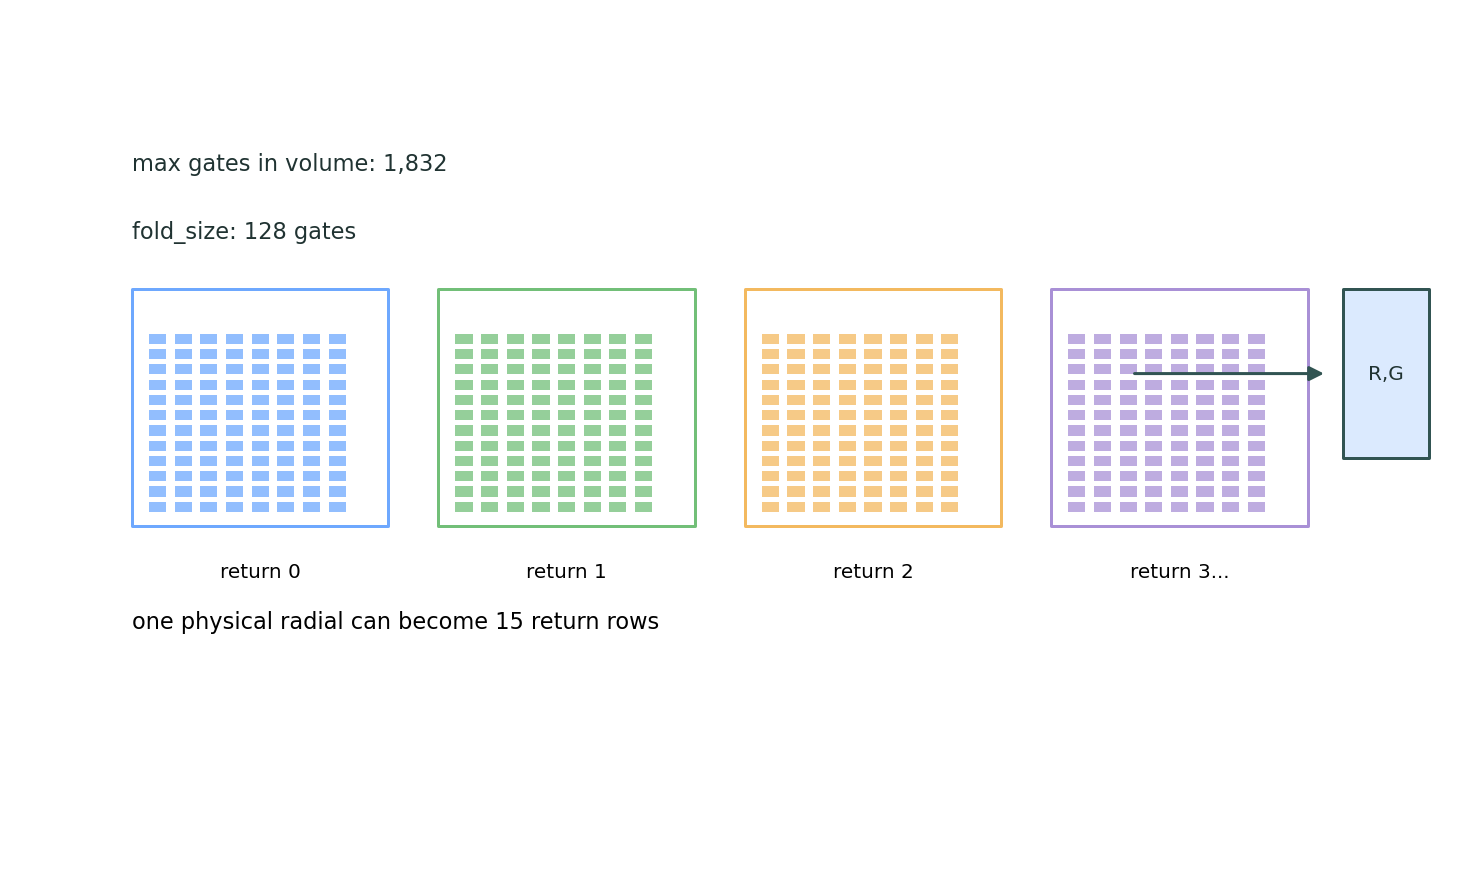
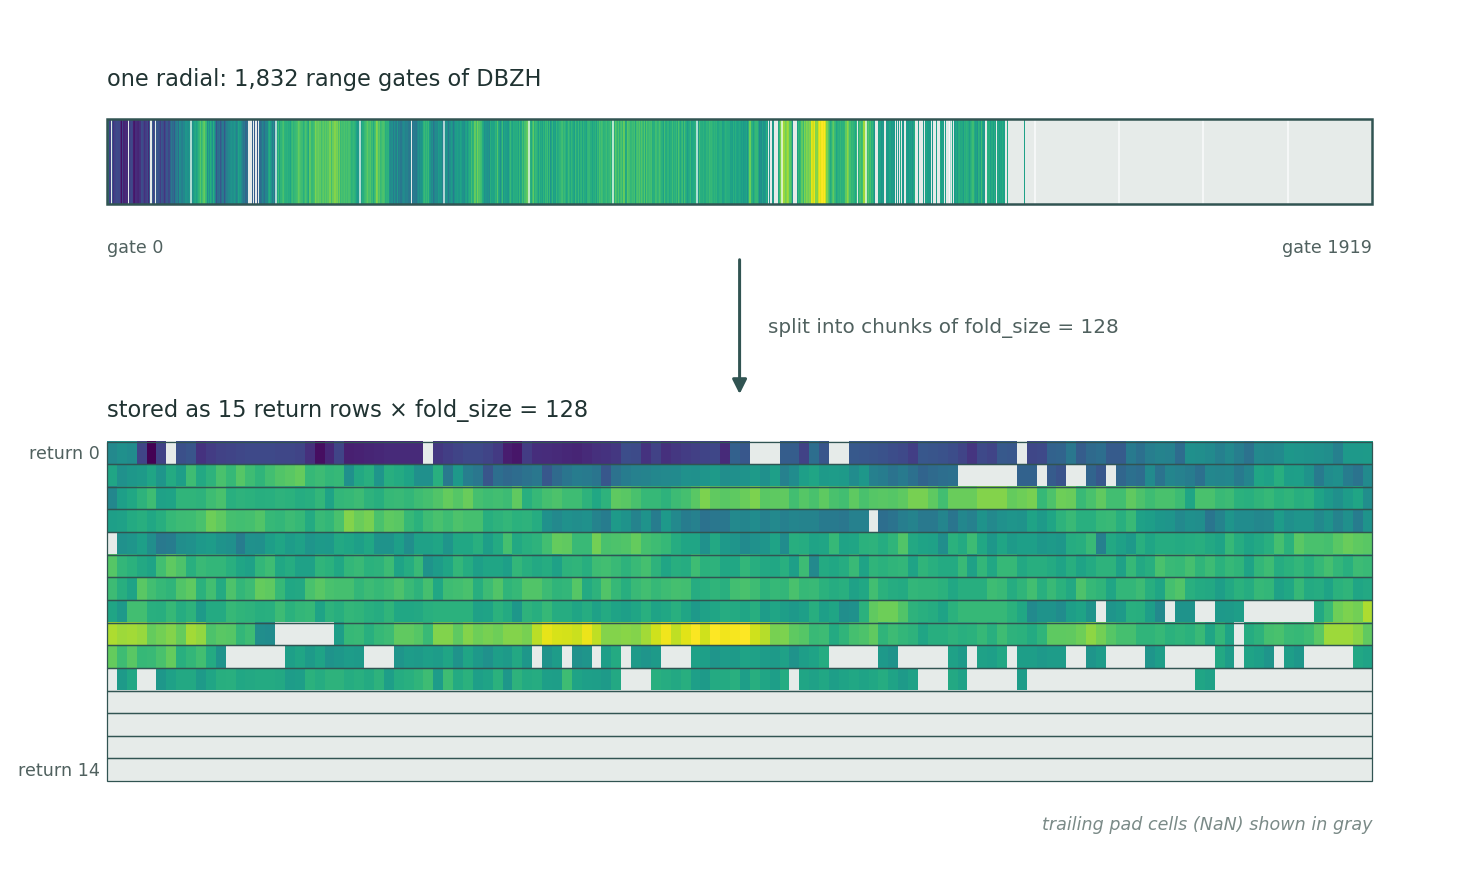
docs: refine raystack visual walkthrough

diff --git a/docs/examples/raystack_explainer.py b/docs/examples/raystack_explainer.py
@@ -118,112 +118,226 @@ def draw_physical_scan(
     *,
     show_title: bool = True,
 ) -> None:
-    """Draw the VCP/sweep/radial/gate hierarchy using real sweep counts."""
+    """Draw the VCP as a side-view fan of beams at real elevation angles."""
     if show_title:
-        ax.set_title("1. Physical scan", loc="left", fontsize=12, fontweight="bold")
-    ax.set_xlim(0, 1)
-    ax.set_ylim(0, 1)
+        ax.set_title("1. Volume coverage", loc="left", fontsize=12, fontweight="bold")
+    ax.set_xlim(-0.05, 1.05)
+    ax.set_ylim(-0.15, 1.05)
     ax.axis("off")
 
+    elevations = np.sort(np.asarray(sweeps["elevation_angle"].values, dtype=np.float32))
     vcp_number = int(np.asarray(vcps["vcp_number"].values)[0])
-    elevations = np.asarray(sweeps["elevation_angle"].values, dtype=np.float32)
-    counts = np.asarray(sweeps["num_returns"].values, dtype=np.int64)
-    shown = min(5, elevations.size)
+    n_sweeps = elevations.size
+    lo = float(elevations[0])
+    hi = float(elevations[-1])
 
-    radar = (0.15, 0.22)
-    ax.scatter([radar[0]], [radar[1]], s=130, color="#315452", zorder=3)
-    ax.text(radar[0], 0.08, "radar", ha="center", va="center", fontsize=8)
+    ax.plot([-0.02, 1.02], [0, 0], color="#a8b3b1", linewidth=1.0, zorder=1)
+    ax.scatter([0], [0], s=140, color="#315452", zorder=5)
+    ax.text(0.0, -0.06, "radar", ha="center", va="top", fontsize=8, color="#203332")
 
-    colors = ["#6ea8fe", "#72bf78", "#f3b95f", "#a990d6", "#e56b6f"]
-    for idx in range(shown):
-        y = 0.34 + idx * 0.1
-        ax.plot(
-            [radar[0], 0.85],
-            [radar[1], y],
-            color=colors[idx % len(colors)],
-            linewidth=2.0,
-            alpha=0.85,
-        )
-        ax.scatter(
-            [0.46, 0.56, 0.66, 0.76],
-            np.interp([0.46, 0.56, 0.66, 0.76], [radar[0], 0.85], [radar[1], y]),
-            s=18,
-            color=colors[idx % len(colors)],
-            alpha=0.9,
-        )
+    cmap = plt.get_cmap("viridis")
+    visual_scale = 60.0 / max(hi, 1.0)
+    beam_length = 0.95
+
+    for i, angle in enumerate(elevations):
+        plot_angle = np.deg2rad(angle * visual_scale)
+        x_end = beam_length * np.cos(plot_angle)
+        y_end = beam_length * np.sin(plot_angle)
+        color = cmap(0.18 + 0.72 * (i / max(n_sweeps - 1, 1)))
+        ax.plot([0, x_end], [0, y_end], color=color, linewidth=1.6, alpha=0.92, zorder=3)
+
+    for angle, label in ((lo, f"{lo:.1f}°"), (hi, f"{hi:.1f}°")):
+        plot_angle = np.deg2rad(angle * visual_scale)
         ax.text(
-            0.88,
-            y,
-            f"sweep {idx}: {elevations[idx]:.1f} deg, {counts[idx]:,} returns",
+            beam_length * np.cos(plot_angle) + 0.02,
+            beam_length * np.sin(plot_angle),
+            label,
             ha="left",
             va="center",
             fontsize=8,
+            color="#203332",
         )
 
-    ax.text(0.05, 0.91, f"VCP {vcp_number}", fontsize=10, fontweight="bold", color="#203332")
-    ax.text(0.05, 0.82, f"{elevations.size} sweeps", fontsize=9, color="#50615f")
-    ax.text(0.42, 0.17, "radials carry range gates", fontsize=9, color="#50615f")
+    ax.text(0.02, 1.0, f"VCP {vcp_number}", fontsize=11, fontweight="bold", color="#203332")
+    ax.text(
+        0.02,
+        0.92,
+        f"{n_sweeps} sweeps from {lo:.1f}° to {hi:.1f}° elevation",
+        fontsize=9,
+        color="#50615f",
+    )
+    ax.text(
+        0.5,
+        -0.12,
+        "side view; vertical scale exaggerated for clarity",
+        ha="center",
+        va="top",
+        fontsize=7,
+        color="#7a8a87",
+        style="italic",
+    )
 
 
 def draw_radial_folding(
     ax: Axes,
     sweeps: xr.Dataset,
+    returns: xr.Dataset,
+    moment: str,
+    offsets: NDArray[np.int64],
     fold_size: int,
     *,
     show_title: bool = True,
 ) -> None:
-    """Draw how a radial is split into fixed-width return chunks."""
+    """Show a real radial as a flattened strip, then folded into return rows."""
     if show_title:
         ax.set_title("2. Fold one radial", loc="left", fontsize=12, fontweight="bold")
     ax.set_xlim(0, 1)
     ax.set_ylim(0, 1)
     ax.axis("off")
 
-    max_gates = int(np.nanmax(np.asarray(sweeps["max_gates"].values, dtype=np.float32)))
-    chunks = max(1, int(np.ceil(max_gates / fold_size)))
-    shown_chunks = min(chunks, 4)
-    gate_rows = 12
-    gate_cols = 8
-    gate_count_shown = gate_rows * gate_cols
-    chunk_width = 0.18
-    x0 = 0.08
-    y0 = 0.45
-    colors = ["#6ea8fe", "#72bf78", "#f3b95f", "#a990d6"]
+    sweep_max_gates = np.asarray(sweeps["max_gates"].values, dtype=np.int64)
+    moment_data = np.asarray(returns[moment].values, dtype=np.float32)
 
-    for chunk in range(shown_chunks):
-        start_x = x0 + chunk * (chunk_width + 0.035)
-        draw_box(
-            ax,
-            (start_x, y0 - 0.05),
-            chunk_width,
-            0.28,
-            "",
-            facecolor="#ffffff",
-            edgecolor=colors[chunk % len(colors)],
+    target_sweep = 0
+    best_score = -1.0
+    for s_idx in range(sweep_max_gates.size):
+        chunks = int(np.ceil(sweep_max_gates[s_idx] / fold_size))
+        if chunks < 2:
+            continue
+        s_start = int(offsets[s_idx])
+        s_stop = int(offsets[s_idx + 1])
+        if s_stop <= s_start:
+            continue
+        valid_count = float(np.sum(~np.isnan(moment_data[s_start:s_stop])))
+        if valid_count > best_score:
+            best_score = valid_count
+            target_sweep = s_idx
+
+    n_chunks = max(1, int(np.ceil(sweep_max_gates[target_sweep] / fold_size)))
+    s_start = int(offsets[target_sweep])
+    s_stop = int(offsets[target_sweep + 1])
+    n_radials_in_sweep = max(1, (s_stop - s_start) // n_chunks)
+    sweep_grid = moment_data[s_start : s_start + n_radials_in_sweep * n_chunks].reshape(
+        n_radials_in_sweep, n_chunks, fold_size
+    )
+    valid_per_radial = np.sum(~np.isnan(sweep_grid), axis=(1, 2))
+    radial = sweep_grid[int(np.argmax(valid_per_radial))]
+    flattened = radial.reshape(1, -1)
+    actual_gates = int(sweep_max_gates[target_sweep])
+
+    cmap = plt.get_cmap("viridis").copy()
+    cmap.set_bad(color="#e6ebe9")
+
+    strip_y0, strip_h = 0.78, 0.10
+    ax.imshow(
+        flattened,
+        extent=(0.05, 0.95, strip_y0, strip_y0 + strip_h),
+        aspect="auto",
+        cmap=cmap,
+        interpolation="nearest",
+        zorder=2,
+    )
+    n_total = flattened.shape[1]
+    for chunk in range(1, n_chunks):
+        x_pos = 0.05 + (chunk * fold_size) / n_total * 0.9
+        ax.plot(
+            [x_pos, x_pos],
+            [strip_y0, strip_y0 + strip_h],
+            color="white",
+            linewidth=0.6,
+            alpha=0.85,
+            zorder=3,
         )
-        for gate in range(gate_count_shown):
-            row = gate // gate_cols
-            col = gate % gate_cols
-            ax.add_patch(
-                Rectangle(
-                    (start_x + 0.012 + col * 0.018, y0 + 0.165 - row * 0.018),
-                    0.012,
-                    0.012,
-                    linewidth=0,
-                    facecolor=colors[chunk % len(colors)],
-                    alpha=0.75,
-                )
-            )
-        label = f"return {chunk}"
-        if chunk == shown_chunks - 1 and chunks > shown_chunks:
-            label = f"return {chunk}..."
-        ax.text(start_x + chunk_width / 2, y0 - 0.11, label, ha="center", fontsize=8)
+    ax.add_patch(
+        Rectangle(
+            (0.05, strip_y0),
+            0.9,
+            strip_h,
+            linewidth=1.0,
+            edgecolor="#315452",
+            facecolor="none",
+            zorder=4,
+        )
+    )
+    ax.text(
+        0.05,
+        strip_y0 + strip_h + 0.04,
+        f"one radial: {actual_gates:,} range gates of {moment}",
+        fontsize=9,
+        color="#203332",
+    )
+    ax.text(0.05, strip_y0 - 0.04, "gate 0", fontsize=7, color="#50615f", ha="left", va="top")
+    ax.text(
+        0.95,
+        strip_y0 - 0.04,
+        f"gate {n_total - 1}",
+        fontsize=7,
+        color="#50615f",
+        ha="right",
+        va="top",
+    )
 
-    ax.text(0.08, 0.82, f"max gates in volume: {max_gates:,}", fontsize=9, color="#203332")
-    ax.text(0.08, 0.74, f"fold_size: {fold_size:,} gates", fontsize=9, color="#203332")
-    ax.text(0.08, 0.28, f"one physical radial can become {chunks} return rows", fontsize=9)
-    draw_arrow(ax, (0.78, 0.58), (0.92, 0.58))
-    draw_box(ax, (0.93, 0.48), 0.06, 0.2, "R,G", facecolor="#dbeafe", fontsize=8)
+    draw_arrow(ax, (0.5, 0.72), (0.5, 0.55))
+    ax.text(
+        0.52,
+        0.635,
+        f"split into chunks of fold_size = {fold_size}",
+        fontsize=8,
+        color="#50615f",
+        va="center",
+    )
+
+    stack_top, stack_h = 0.50, 0.40
+    ax.imshow(
+        radial,
+        extent=(0.05, 0.95, stack_top - stack_h, stack_top),
+        aspect="auto",
+        cmap=cmap,
+        interpolation="nearest",
+        zorder=2,
+    )
+    cell_h = stack_h / n_chunks
+    for chunk in range(n_chunks):
+        y_top = stack_top - chunk * cell_h
+        ax.add_patch(
+            Rectangle(
+                (0.05, y_top - cell_h),
+                0.9,
+                cell_h,
+                linewidth=0.5,
+                edgecolor="#315452",
+                facecolor="none",
+                zorder=3,
+            )
+        )
+    for chunk_label_idx in (0, n_chunks - 1):
+        y_center = stack_top - (chunk_label_idx + 0.5) * cell_h
+        ax.text(
+            0.045,
+            y_center,
+            f"return {chunk_label_idx}",
+            ha="right",
+            va="center",
+            fontsize=7,
+            color="#50615f",
+        )
+    ax.text(
+        0.05,
+        stack_top + 0.03,
+        f"stored as {n_chunks} return rows × fold_size = {fold_size}",
+        fontsize=9,
+        color="#203332",
+    )
+    ax.text(
+        0.95,
+        stack_top - stack_h - 0.04,
+        "trailing pad cells (NaN) shown in gray",
+        fontsize=7,
+        color="#7a8a87",
+        ha="right",
+        va="top",
+        style="italic",
+    )
 
 
 def draw_flat_schema(
@@ -353,7 +467,14 @@ def create_raystack_explainer(parts: RaystackParts, *, fold_size: int = 128) -> 
     fig, axes = plt.subplots(2, 2, figsize=(15, 9), constrained_layout=True)
     flat_axes: Sequence[Axes] = axes.ravel()
     draw_physical_scan(flat_axes[0], parts.vcps, parts.sweeps)
-    draw_radial_folding(flat_axes[1], parts.sweeps, fold_size)
+    draw_radial_folding(
+        flat_axes[1],
+        parts.sweeps,
+        parts.returns,
+        parts.moment,
+        parts.offsets,
+        fold_size,
+    )
     draw_flat_schema(flat_axes[2], parts.vcps, parts.sweeps, parts.returns)
     draw_ml_tensor(flat_axes[3], parts.returns, parts.moment, parts.offsets)
     fig.suptitle("Raystack: from NEXRAD L2 volume to flat training arrays", fontsize=16)
@@ -371,7 +492,15 @@ def create_panel_figures(parts: RaystackParts, *, fold_size: int = 128) -> list[
         (
             "fold-radial",
             "2. Fold one radial",
-            lambda ax: draw_radial_folding(ax, parts.sweeps, fold_size, show_title=False),
+            lambda ax: draw_radial_folding(
+                ax,
+                parts.sweeps,
+                parts.returns,
+                parts.moment,
+                parts.offsets,
+                fold_size,
+                show_title=False,
+            ),
         ),
         (
             "flat-schema",

diff --git a/docs/guides/raystack-format.md b/docs/guides/raystack-format.md
@@ -131,7 +131,3 @@ row-for-row, so the same matrix is consumable as a tensor and
 interpretable as radar data.
 
 ![ML tensor panel showing a DBZH return-by-range matrix and aligned metadata.](../assets/raystack-explainer-panels/ml-tensor.png)
-
-The same panels are also available as a single combined figure:
-
-![Raystack explainer figure generated from a KABR NEXRAD Level 2 volume.](../assets/raystack-explainer.png)
